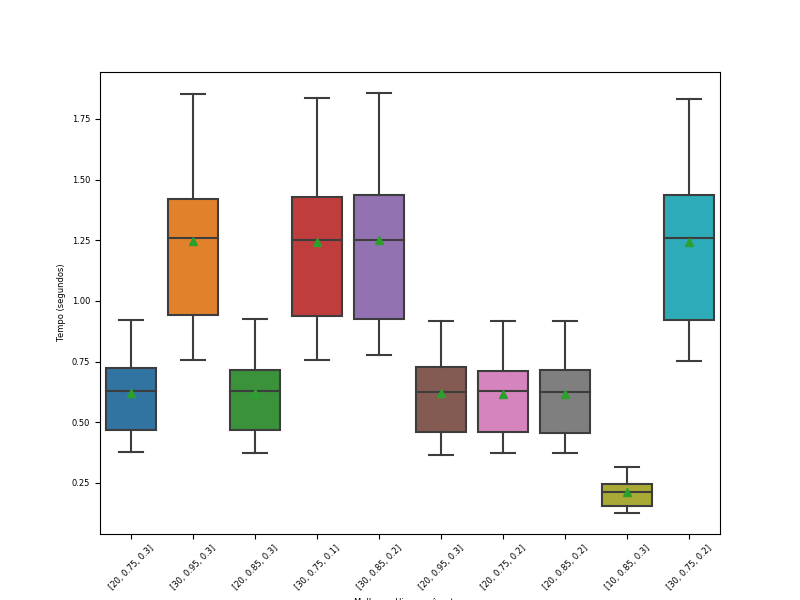
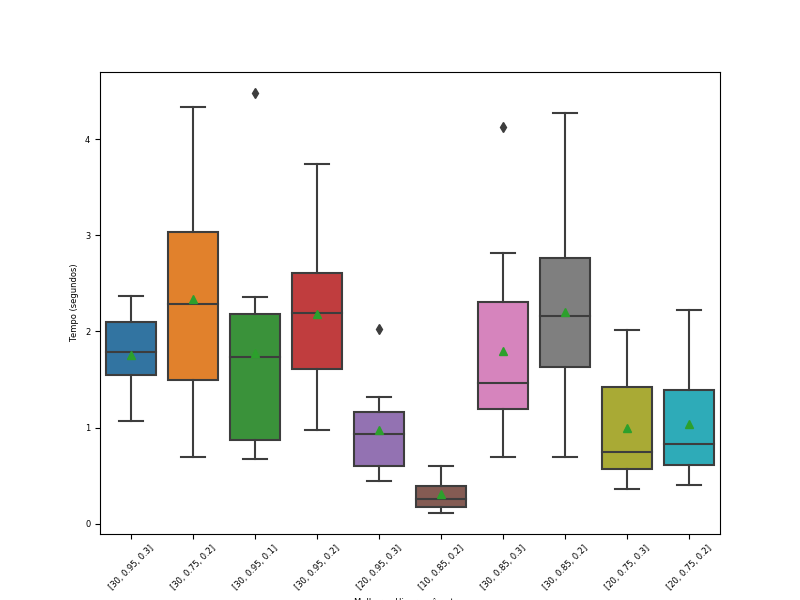
first complete version

diff --git a/trab1/trab1.py b/trab1/trab1.py
@@ -18,6 +18,8 @@ from time import time
 import seaborn as sns
 import matplotlib.pyplot as plt
 from statistics import mean, stdev
+import numpy as np
+import tabulate
 
 # Train problems (T, [(vi,ti)])
 TRAIN = [
@@ -137,7 +139,7 @@ HEURISTICS = [
         [[10, 20, 30],             # population size
         [0.75, 0.85,0.95],         # crossover rate
         [0.10, 0.20, 0.30]],       # mutation rate
-        [20, 0.75, 0.3])           # test parameters
+        [30, 0.95, 0.3])           # test parameters
 ]
 
 # Returns a list with all possible configurations of the paremeters in parList:
@@ -220,7 +222,18 @@ def crossNormalize(l):
     norm = list(zip_longest(*normx))
     return norm
 
-def generateLatexTable(names,avr,sdv,normavr,normsdv,timeavg,timesdv):
+def generateLatexTable(pars,headers,fileName,zipPar=True):
+    tabulate.LATEX_ESCAPE_RULES={}
+    table = []
+    if zipPar:
+        l = list(zip_longest(*pars))
+    else:
+        l = pars
+    for i in l:
+        table.append(i)
+    latexTable = tabulate.tabulate(table, headers=headers, tablefmt='latex')
+    with open('dados/'+fileName+'.txt', 'w') as file:
+        file.write(latexTable)
     return
 
 def rank(l):
@@ -238,13 +251,36 @@ def rank(l):
     unsortRanked = [0]*tam
     for i in range(tam):
         unsortRanked[i] = ranked[sort.index(l[i])]
-    mapRanked = [(ranked[i],l.index(sort[i])) for i in range(tam)]
+    nl = np.array(l)
+    positions = []
+    for i in sort:
+        ii = np.where(nl == i)[0]
+        positions = positions + list(ii)
+    positions =  list(dict.fromkeys(positions))
+    mapRanked = [(ranked[i],positions[i]) for i in range(tam)]
     return mapRanked, unsortRanked
 
-def avgRank():
+def avgRank(results):
+    ranks = []
+    for l in list(zip_longest(*results)):
+        _, r = rank(l)
+        ranks.append(r)
+    means = []
+    for r in list(zip_longest(*ranks)):
+        means.append(mean(r))
+    table = [ [means[i],HEURISTICS[i][0]] for i in range(len(means)) ]
+    table = sorted(table)
+    headers = ['Colocação','Meta-heurística']
+    name = 'Rank Absoluto'
+    generateLatexTable(table,headers,name,False)
     return
 
-def normRank():
+def normRank(normAvr):
+    ranks, _ = rank(normAvr)
+    table = [ [x,HEURISTICS[i][0]] for (x,i) in ranks ]
+    headers = ['Colocação','Meta-heurística']
+    name = 'Rank Normalizado'
+    generateLatexTable(table,headers,name,False)
     return
 
 def test():
@@ -281,15 +317,16 @@ def test():
     normResults = crossNormalize(results) # normalizing problens results
     normAvr = [mean(x) for x in normResults]
     normSdv = [stdev(x) for x in normResults]
+    genarate_Boxplot(' Teste - Valores', normResults, names, 'Valor', 'Meta-Heurística')
+    genarate_Boxplot(' Teste - Tempo de Execução', execTimes, names, 'Tempo (segundos)', 'Meta-Heurística')
+    headers = ['Meta-heurística','Média Absoluta','Desvio Padrão Absoluto','Média Normalizada','Desvio Padrão Normalizado','Média do Tempo de Execução','Desvio Padrão do Tempo de Execução']
+    generateLatexTable([names,avr,sdv,normAvr,normSdv,timeAvr,timeSdv],headers,'Tabela')
+    avgRank(results)
+    normRank(normAvr)
+    return
 
-    genarate_Boxplot(funcName+' Teste - Valores', normResults, names, 'Valor', 'Meta-Heurística')
-    genarate_Boxplot(funcName+' Teste - Tempo de Execução', execTimes, names, 'Tempo (segundos)', 'Meta-Heurística')
-    generateLatexTable(names,avr,sdv,normAvr,normSdv,timeAvr,timeSdv)
 
-
-# print(train())
-# l = [7,4,7,12,7]
-# print(rank(l))
+test()
 
 # par = build_Parameters(HEURISTICS[4][2])
 # prob = TRAIN[7]
